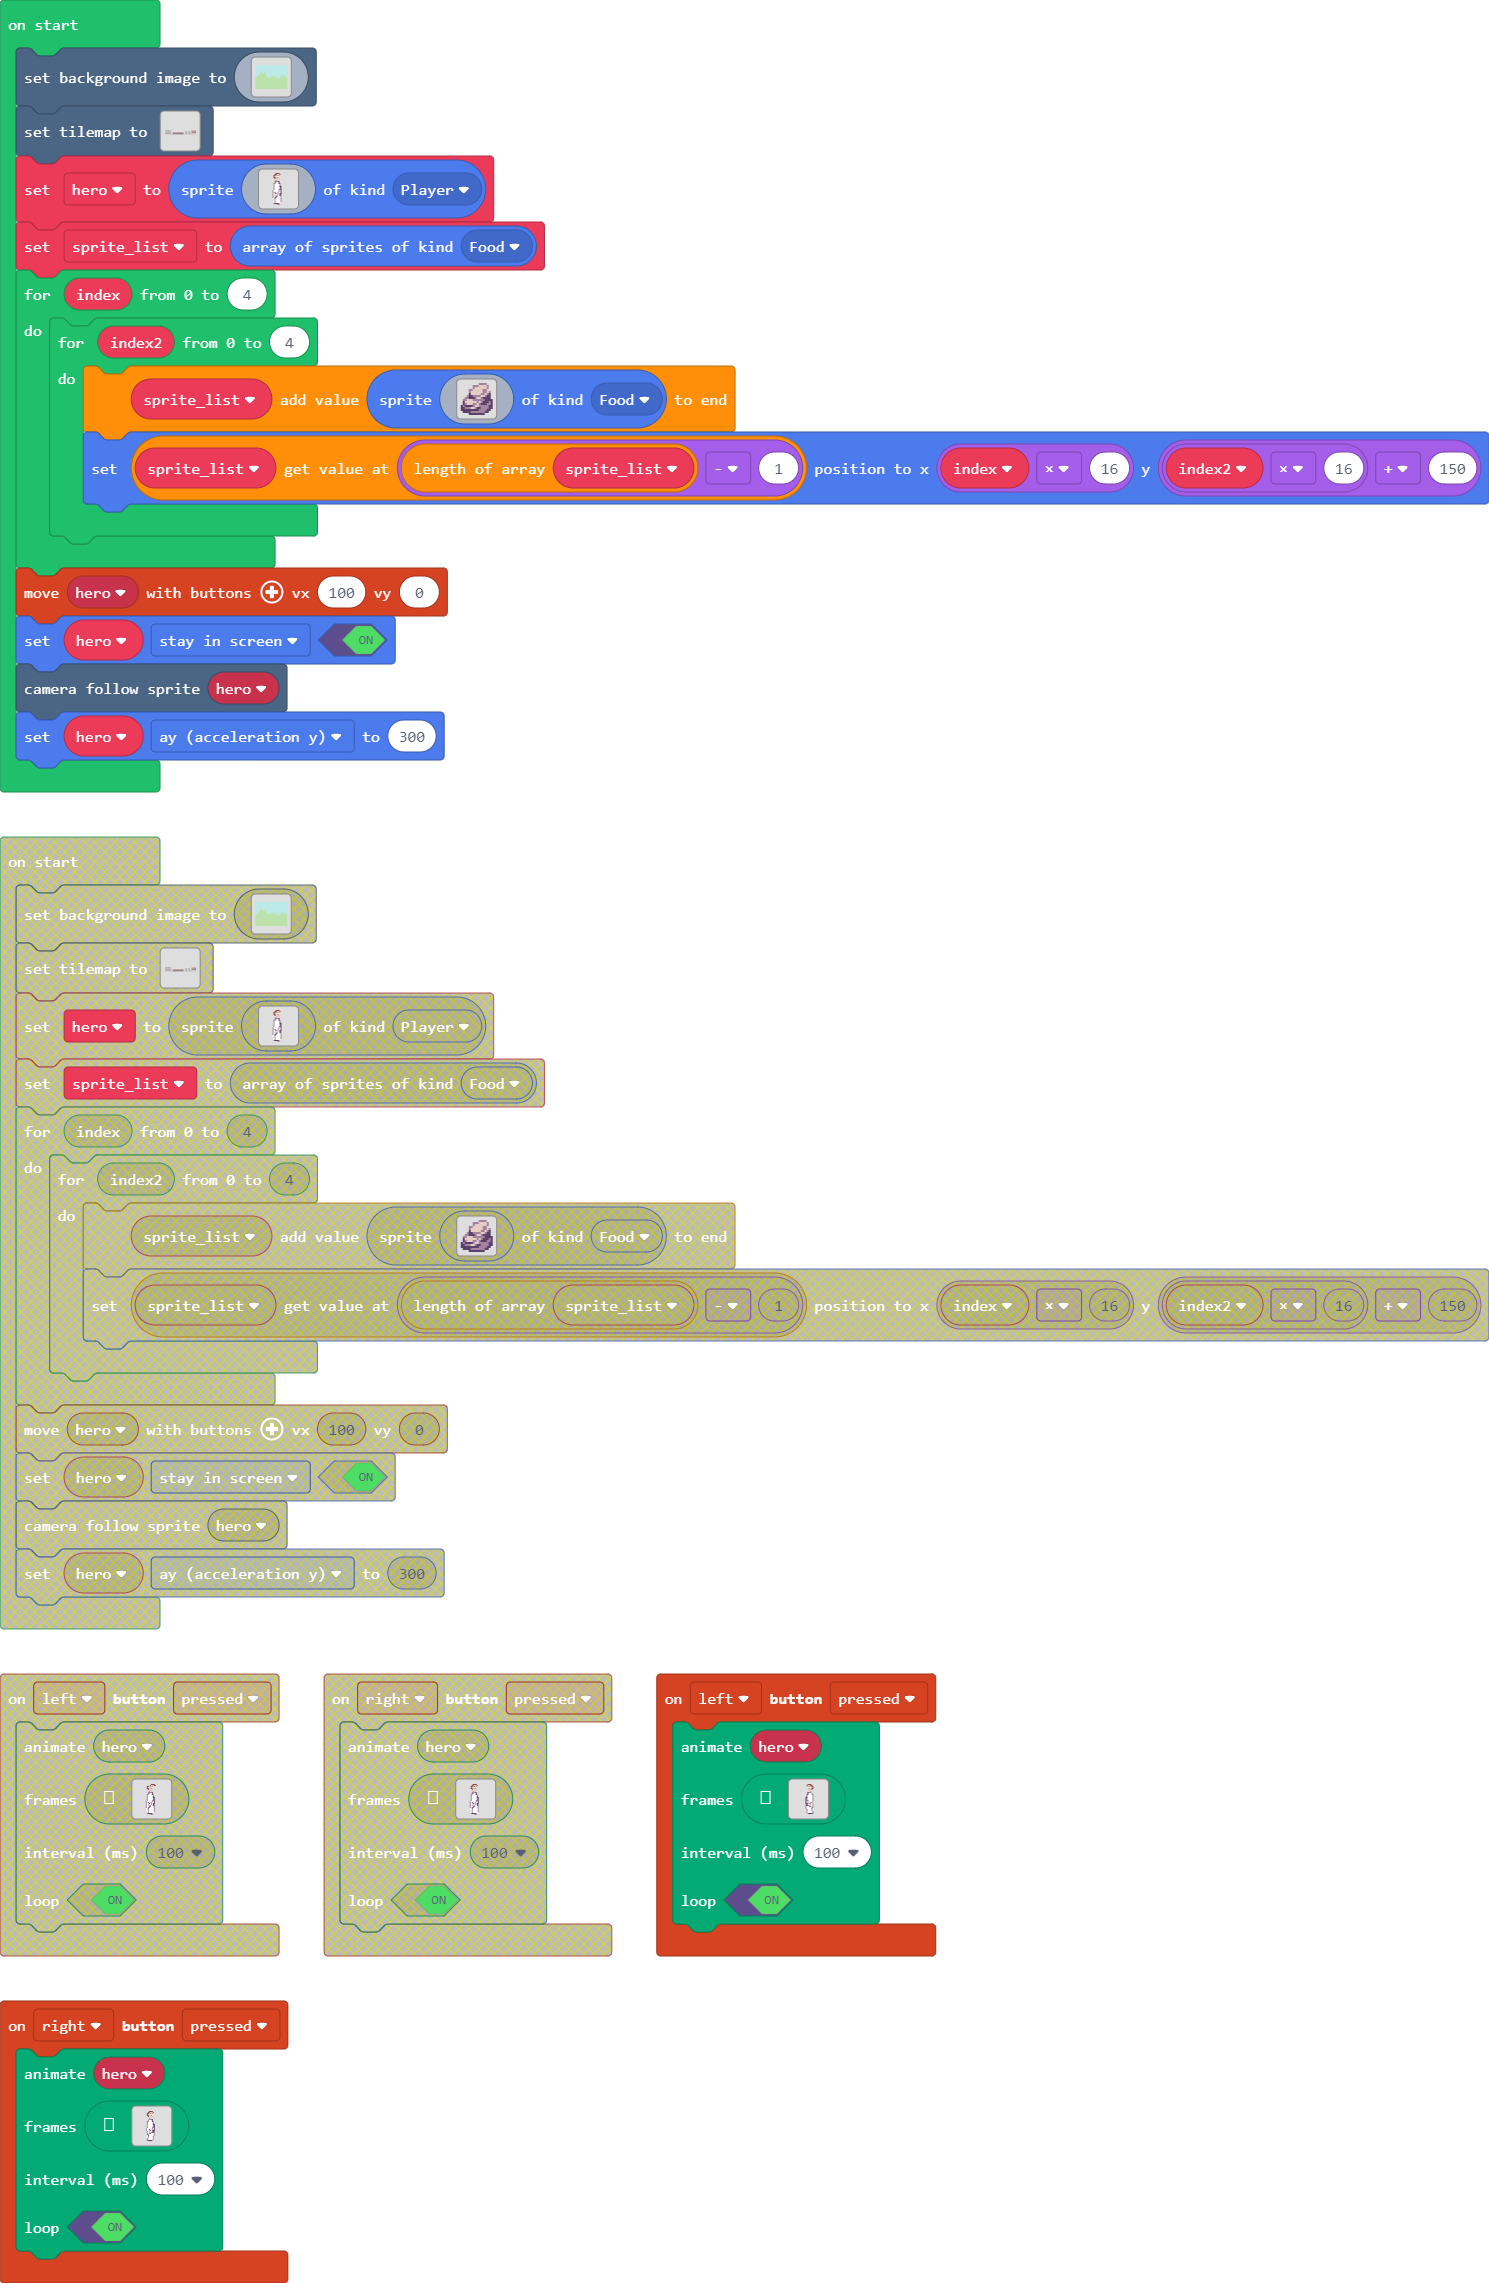
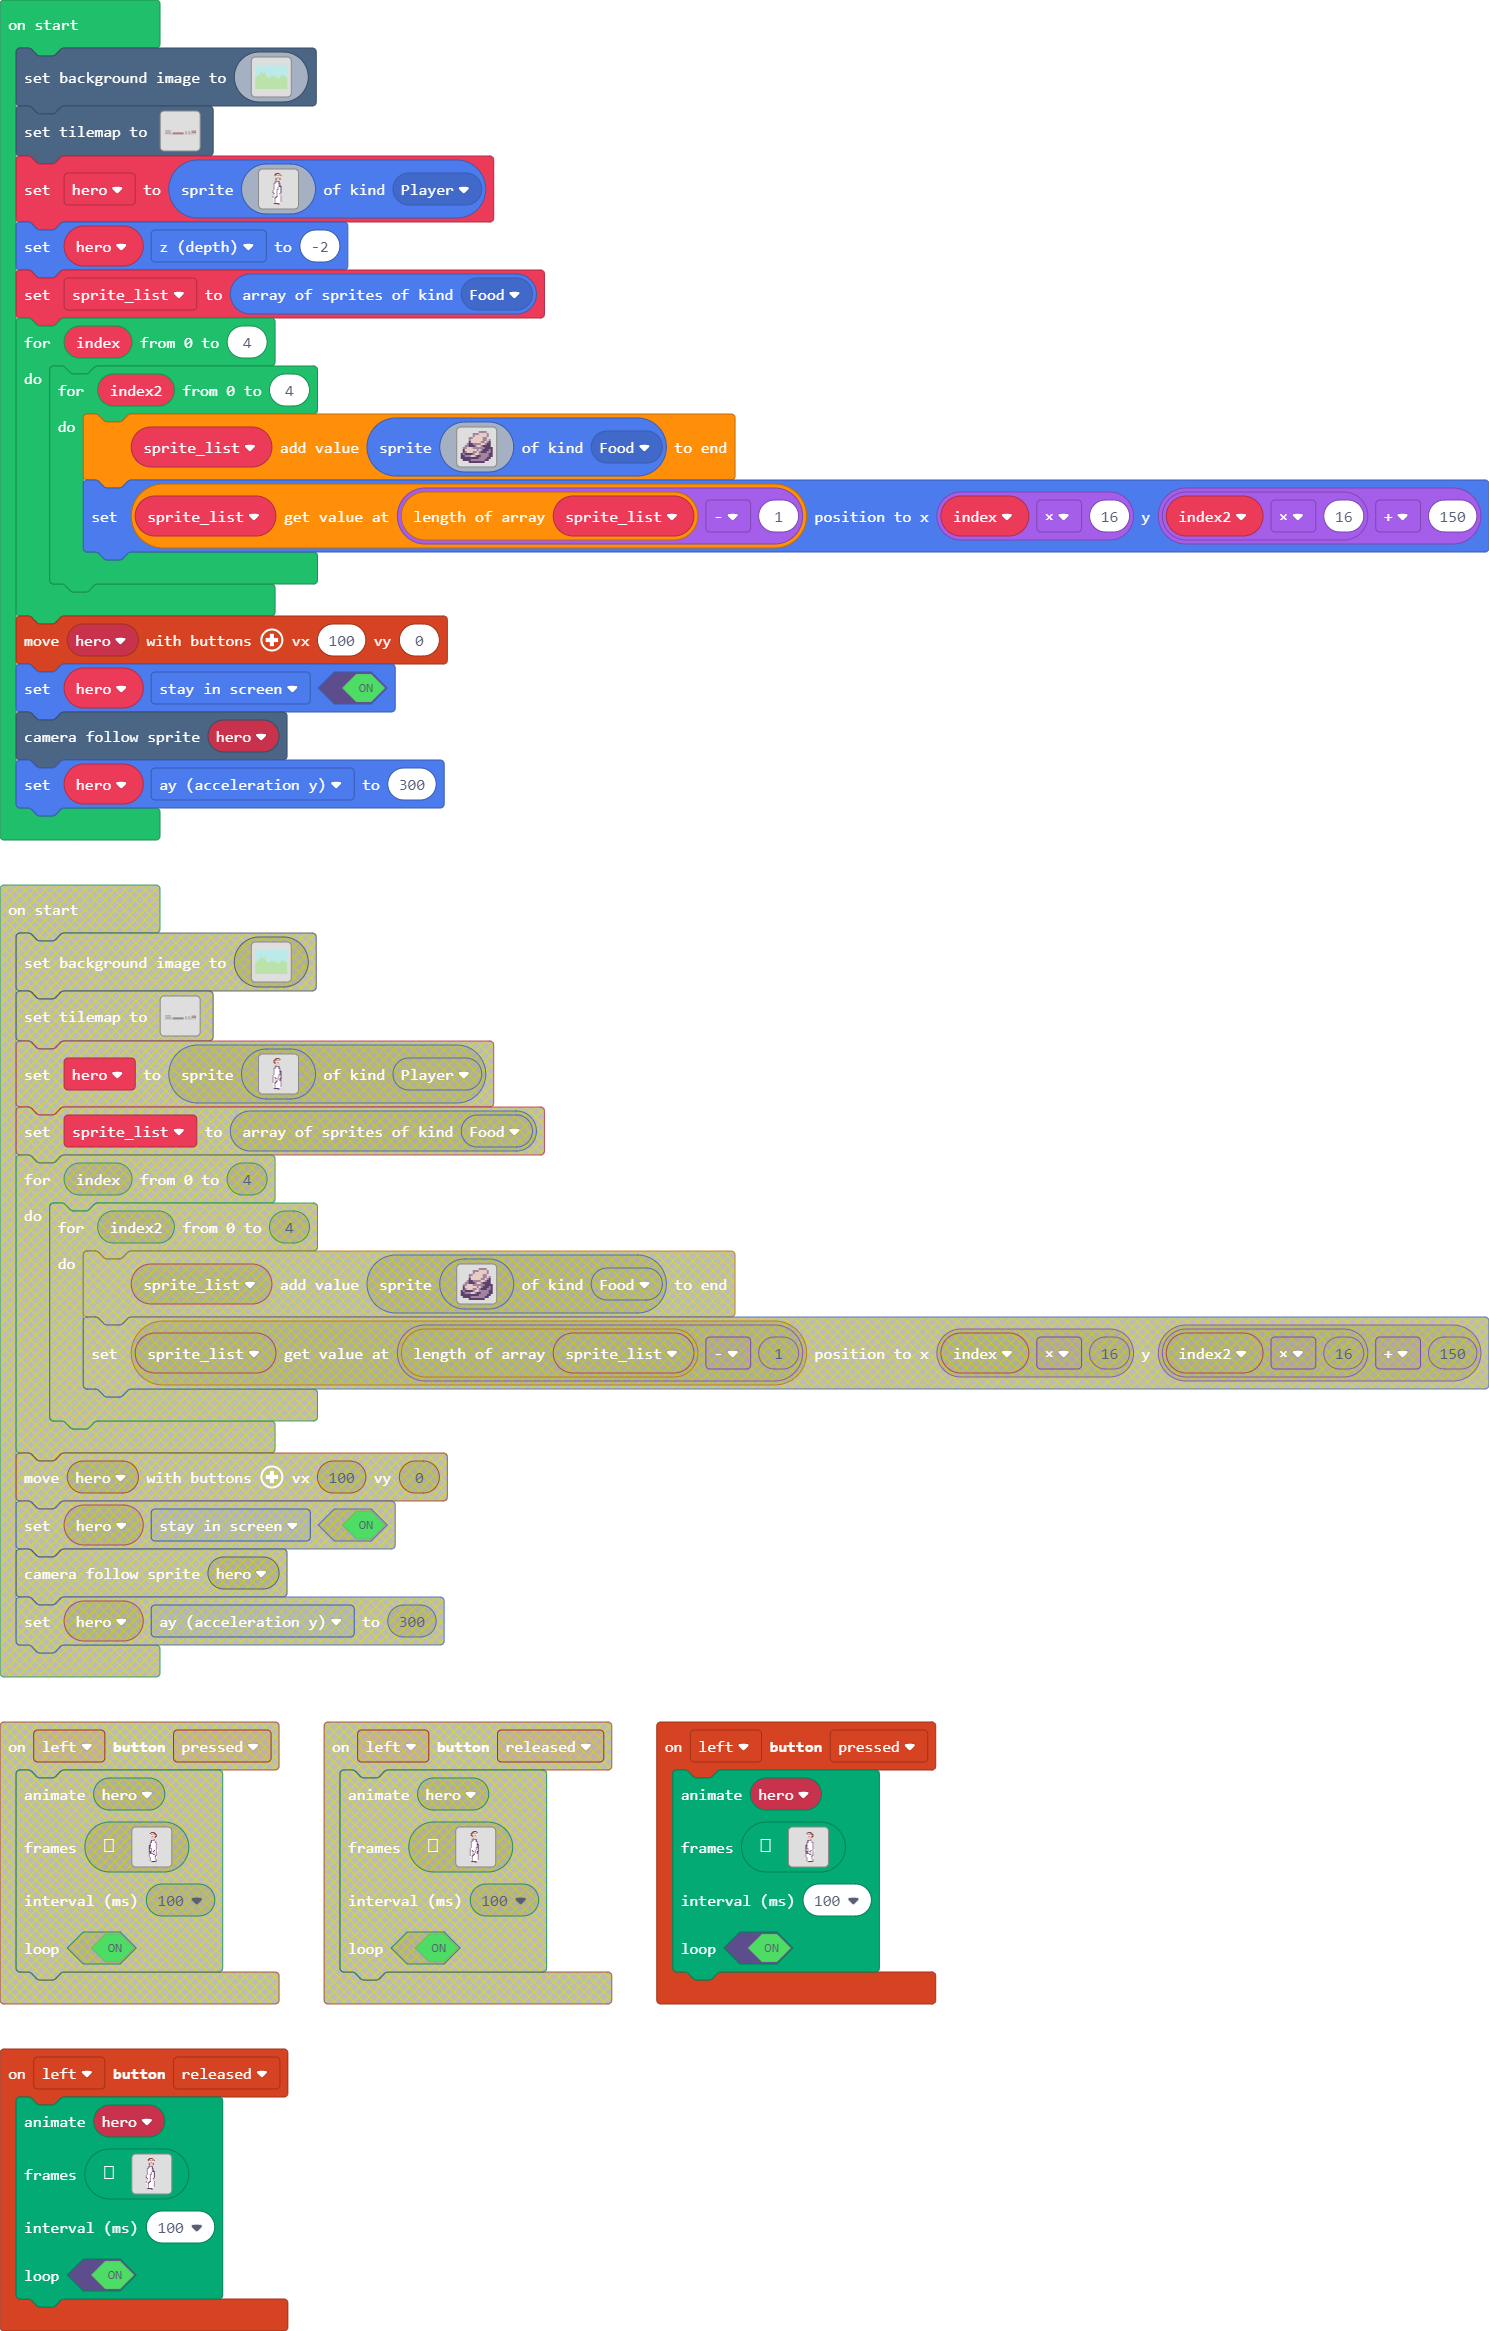
Update main.blocks, main.ts

Changed region(s): [[0.0, 0.0311, 1.0, 0.9641], [0.0618, 0.9641, 0.0927, 0.9952]]

diff --git a/main.ts b/main.ts
@@ -588,6 +588,139 @@ b b b b b b b b b b b b b b b b
 d d d d d d d d d d d d d d d d 
 c c c c c c c c c c c c c c c c 
 `
+    //% blockIdentity=images._tile
+    export const tile33 = img`
+f d d b c 2 c c c 2 c c c 2 c c 
+f d d b c 4 4 c 2 4 4 c 2 4 4 c 
+f d d b c 4 4 c 2 4 4 c 2 4 4 c 
+f d d b c 4 4 c 2 4 4 c 2 4 4 c 
+f d d b c 4 4 c 2 4 4 c 2 4 4 c 
+f d d b c 4 4 c 2 4 4 c 2 4 4 c 
+f d d b c d 4 c 2 d 4 c 2 d 4 c 
+f d d b c d b c b d b c b d b c 
+f d d b c d b c b d b c b d b c 
+f d d d d d d d d d d d d d d d 
+f b b b b b b b b b b b b b b b 
+f b d b d b d b d b d b d b d b 
+f d d d d d d d d d d d d d d d 
+f b b b b b b b b b b b b b b b 
+f b b b b b b b b b b b b b b b 
+f f f f f f f f f f f f f f f f 
+`
+    //% blockIdentity=images._tile
+    export const tile34 = img`
+c 2 c c c 2 c c c 2 c c c 2 c c 
+2 4 4 c 2 4 4 c 2 4 4 c 2 4 4 c 
+2 4 4 c 2 4 4 c 2 4 4 c 2 4 4 c 
+2 4 4 c 2 4 4 c 2 4 4 c 2 4 4 c 
+2 4 4 c 2 4 4 c 2 4 4 c 2 4 4 c 
+2 4 4 c 2 4 4 c 2 4 4 c 2 4 4 c 
+2 4 4 c 2 4 4 c 2 4 4 c 2 4 4 c 
+2 c 4 c 2 c 4 c 2 c 4 c 2 c 4 c 
+c 2 c c c 2 c c c 2 c c c c c c 
+2 4 4 c 2 4 4 c 2 4 4 c 2 4 4 c 
+2 4 4 c 2 4 4 c 2 4 4 c 2 4 4 c 
+2 4 4 c 2 4 4 c 2 4 4 c 2 4 4 c 
+2 4 4 c 2 4 4 c 2 4 4 c 2 4 4 c 
+2 4 4 c 2 4 4 c 2 4 4 c 2 4 4 c 
+2 4 4 c 2 4 4 c 2 4 4 c 2 4 4 c 
+2 c 4 c 2 c 4 c 2 c 4 c 2 c 4 c 
+`
+    //% blockIdentity=images._tile
+    export const tile35 = img`
+f d d b c 2 c c c 2 c c c 2 c c 
+f d d b c 4 4 c 2 4 4 c 2 4 4 c 
+f d d b c 4 4 c 2 4 4 c 2 4 4 c 
+f d d b c 4 4 c 2 4 4 c 2 4 4 c 
+f d d b c 4 4 c 2 4 4 c 2 4 4 c 
+f d d b c 4 4 c 2 4 4 c 2 4 4 c 
+f d d b c 4 4 c 2 4 4 c 2 4 4 c 
+f d d b c c 4 c 2 c 4 c 2 c 4 c 
+f d d b c 2 c c c 2 c c c c c c 
+f d d b c 4 4 c 2 4 4 c 2 4 4 c 
+f d d b c 4 4 c 2 4 4 c 2 4 4 c 
+f d d b c 4 4 c 2 4 4 c 2 4 4 c 
+f d d b c 4 4 c 2 4 4 c 2 4 4 c 
+f d d b c 4 4 c 2 4 4 c 2 4 4 c 
+f d d b c 4 4 c 2 4 4 c 2 4 4 c 
+f d d b c c 4 c 2 c 4 c 2 c 4 c 
+`
+    //% blockIdentity=images._tile
+    export const tile36 = img`
+f b b c c 2 c c c 2 c c c 2 c c 
+f b b c 2 4 4 c 2 4 4 c 2 4 4 c 
+f b b c 2 4 4 c 2 4 4 c 2 4 4 c 
+f b b c 2 4 4 c 2 4 4 c 2 4 4 c 
+f b b c 2 4 4 c 2 4 4 c 2 4 4 c 
+f b b c 2 4 4 c 2 4 4 c 2 4 4 c 
+f d d c 2 d 4 c 2 d 4 c 2 d 4 c 
+f d d b b d b c b d b c b d b c 
+f d d b b d b c b d b c b d b c 
+f d d d d d d d d d d d d d d d 
+f b b b b b b b b b b b b b b b 
+f b d b d b d b d b d b d b d b 
+f d d d d d d d d d d d d d d d 
+f b b b b b b b b b b b b b b b 
+f b b b b b b b b b b b b b b b 
+f f f f f f f f f f f f f f f f 
+`
+    //% blockIdentity=images._tile
+    export const tile37 = img`
+c 2 c c c 2 c c c 2 c c b d d f 
+2 4 4 c 2 4 4 c 2 4 4 c b d d f 
+2 4 4 c 2 4 4 c 2 4 4 c b d d f 
+2 4 4 c 2 4 4 c 2 4 4 c b d d f 
+2 4 4 c 2 4 4 c 2 4 4 c b d d f 
+2 4 4 c 2 4 4 c 2 4 4 c b d d f 
+2 d 4 c 2 d 4 c 2 d 4 c b d d f 
+b d b c b d b c b d b c b d d f 
+b d b c b d b c b d b c b d d f 
+d d d d d d d d d d d d d d d f 
+b b b b b b b b b b b b b b b f 
+d b d b d b d b d b d b d b d f 
+d d d d d d d d d d d d d d d f 
+b b b b b b b b b b b b b b b f 
+b b b b b b b b b b b b b b b f 
+f f f f f f f f f f f f f f f f 
+`
+    //% blockIdentity=images._tile
+    export const tile38 = img`
+f d d b c 2 c c c 2 c c c 2 c c 
+f d d b c 4 4 c 2 4 4 c 2 4 4 c 
+f d d b c 4 4 c 2 4 4 c 2 4 4 c 
+f d d b c 4 4 c 2 4 4 c 2 4 4 c 
+f d d b c 4 4 c 2 4 4 c 2 4 4 c 
+f d d b c 4 4 c 2 4 4 c 2 4 4 c 
+f d d b c 4 4 c 2 4 4 c 2 4 4 c 
+f d d b c c 4 c 2 c 4 c 2 c 4 c 
+f d d b c 2 c c c 2 c c c c c c 
+f d d b c 4 4 c 2 4 4 c 2 4 4 c 
+f d d b c 4 4 c 2 4 4 c 2 4 4 c 
+f d d b c 4 4 c 2 4 4 c 2 4 4 c 
+f d d b c 4 4 c 2 4 4 c 2 4 4 c 
+f d d b c 4 4 c 2 4 4 c 2 4 4 c 
+f d d b c 4 4 c 2 4 4 c 2 4 4 c 
+f d d b c c 4 c 2 c 4 c 2 c 4 c 
+`
+    //% blockIdentity=images._tile
+    export const tile39 = img`
+c 2 c c c 2 c c c 2 c c b d d f 
+2 4 4 c 2 4 4 c 2 4 4 c b d d f 
+2 4 4 c 2 4 4 c 2 4 4 c b d d f 
+2 4 4 c 2 4 4 c 2 4 4 c b d d f 
+2 4 4 c 2 4 4 c 2 4 4 c b d d f 
+2 4 4 c 2 4 4 c 2 4 4 c b d d f 
+2 4 4 c 2 4 4 c 2 4 4 c b d d f 
+2 c 4 c 2 c 4 c 2 c 4 c b d d f 
+c 2 c c c 2 c c c 2 c c b d d f 
+2 4 4 c 2 4 4 c 2 4 4 c b d d f 
+2 4 4 c 2 4 4 c 2 4 4 c b d d f 
+2 4 4 c 2 4 4 c 2 4 4 c b d d f 
+2 4 4 c 2 4 4 c 2 4 4 c b d d f 
+2 4 4 c 2 4 4 c 2 4 4 c b d d f 
+2 4 4 c 2 4 4 c 2 4 4 c b d d f 
+2 c 4 c 2 c 4 c 2 c 4 c b d d f 
+`
 }
 controller.up.onEvent(ControllerButtonEvent.Released, function () {
     hero.ay = 300
@@ -673,27 +806,27 @@ controller.left.onEvent(ControllerButtonEvent.Released, function () {
     [img`
 . . . . . e e e e . . . . . . . 
 . . . . e e d d d e . . . . . . 
-. . . e e d b d b . . . . . . . 
-. . . e d d 1 d 1 . . . . . . . 
-. . . e e d d b d . . . . . . . 
-. . . . e d d d d . . . . . . . 
-. . . . . d d d d . . . . . . . 
+. . . . e d b d b d e . . . . . 
+. . . . d d 1 d 1 d . . . . . . 
+. . . . . d d b d d . . . . . . 
+. . . . . e d d d e . . . . . . 
+. . . . . e d d d e . . . . . . 
 . . . . . b d d . . . . . . . . 
 . . . . b b b b c . . . . . . . 
 . . . . b b 1 1 c . . . . . . . 
 . . . b b 1 1 1 c b . . . . . . 
-. . . b 1 1 1 1 1 b . . . . . . 
-. . . b 1 1 1 1 1 c . . . . . . 
-. . . b 1 1 1 1 1 c c . . . . . 
-. . . b 1 1 1 1 1 b c . . . . . 
-. . . b 1 1 1 1 1 b c . . . . . 
-. . . b 1 1 1 1 b b c . . . . . 
-. . b 1 1 1 1 1 b 1 c . . . . . 
-. . b 1 1 1 1 1 b 1 c . . . . . 
-. . b 1 c 1 1 b 1 1 c . . . . . 
-. . b 1 d c 1 b 1 c c . . . . . 
-. . b 1 d d 1 b 1 c b . . . . . 
-. . b 1 d d b 1 1 c b . . . . . 
+. . . b 1 1 1 1 b b . . . . . . 
+. . . b 1 1 1 1 b c . . . . . . 
+. . . b 1 1 1 1 b c c . . . . . 
+. . . b 1 1 1 b 1 1 c . . . . . 
+. . . b 1 1 1 b 1 1 c . . . . . 
+. . . b 1 1 b b 1 1 c . . . . . 
+. . b 1 1 1 b 1 1 1 c . . . . . 
+. . b 1 1 1 b 1 1 1 c . . . . . 
+. . c 1 1 1 b 1 1 1 c . . . . . 
+. . d c 1 1 b 1 1 c d . . . . . 
+. . d d 1 1 b 1 1 d d . . . . . 
+. . d d 1 1 b 1 1 d d . . . . . 
 . . b 1 1 b c 1 1 1 b . . . . . 
 . . b 1 b c 1 1 1 1 b . . . . . 
 . . 1 1 c 1 1 1 1 1 b . . . . . 
@@ -702,7 +835,7 @@ controller.left.onEvent(ControllerButtonEvent.Released, function () {
 . . . 1 b 1 1 1 1 1 b . . . . . 
 . . . 1 b 1 1 1 1 1 . . . . . . 
 . . . b c c c c b . . . . . . . 
-. . . d d d . b b d d . . . . . 
+. . . d d d . b b d . . . . . . 
 `],
     100,
     true
@@ -954,7 +1087,7 @@ scene.setBackgroundImage(img`
 7 7 7 7 7 7 7 7 7 7 7 7 7 7 7 7 7 7 7 7 7 7 7 7 7 7 7 7 7 7 7 7 7 7 7 7 7 7 7 7 7 7 7 7 7 7 7 7 7 7 7 7 7 7 7 7 7 7 7 7 7 7 7 7 7 7 7 7 7 7 7 7 7 7 7 7 7 7 7 7 7 7 7 7 7 7 7 7 7 7 7 7 7 7 7 7 7 7 7 7 7 7 7 7 7 7 7 7 7 7 7 7 7 7 7 7 7 7 7 7 7 7 7 7 7 7 7 7 7 7 7 7 7 7 7 7 7 7 7 7 7 7 7 7 7 7 7 7 7 7 7 7 7 7 7 7 7 7 7 7 
 `)
 tiles.setTilemap(tiles.createTilemap(
[2 lines of base64/hex data omitted]
             img`
 . . . . . . . . . . . . . . . . . . . . . . . . . . . . . . . . . . . . . . . . . . . . . . . . . . . . . . . . . . . . . . . . 
 . . . . . . . . . . . . . . . . . . . . . . . . . . . . . . . . . . . . . . . . . . . . . . . . . . . . . . . . . . . . . . . . 
@@ -973,33 +1106,33 @@ tiles.setTilemap(tiles.createTilemap(
 . 2 2 2 2 2 2 2 2 2 2 2 2 2 . 2 . . . . . . . . . . . . . . . . . . . . . . . . . . . . . . . . . . . . 2 . . . . . . . . . . . 
 2 2 2 2 . . . . . . . . 2 2 2 2 2 2 2 2 2 2 2 2 2 2 2 2 2 2 2 2 2 2 2 2 2 2 2 2 2 2 2 2 2 2 2 2 2 2 2 2 2 2 2 2 2 2 2 2 2 2 2 2 
 `,
-            [myTiles.tile0,sprites.castle.tileGrass2,sprites.castle.tileDarkGrass2,sprites.castle.tilePath5,myTiles.tile1,myTiles.tile2,myTiles.tile3,myTiles.tile4,myTiles.tile5,myTiles.tile6,myTiles.tile7,myTiles.tile9,myTiles.tile10,myTiles.tile11,myTiles.tile12,myTiles.tile13,myTiles.tile14,myTiles.tile15,myTiles.tile16,myTiles.tile17,myTiles.tile19,myTiles.tile20,myTiles.tile21,myTiles.tile22,myTiles.tile23,myTiles.tile24,myTiles.tile25,myTiles.tile26,myTiles.tile27,myTiles.tile28,myTiles.tile29,myTiles.tile30,myTiles.tile31,myTiles.tile32],
+            [myTiles.tile0,sprites.castle.tileGrass2,sprites.castle.tileDarkGrass2,sprites.castle.tilePath5,myTiles.tile1,myTiles.tile2,myTiles.tile3,myTiles.tile4,myTiles.tile5,myTiles.tile6,myTiles.tile7,myTiles.tile9,myTiles.tile10,myTiles.tile11,myTiles.tile12,myTiles.tile13,myTiles.tile14,myTiles.tile15,myTiles.tile16,myTiles.tile17,myTiles.tile19,myTiles.tile20,myTiles.tile21,myTiles.tile22,myTiles.tile23,myTiles.tile24,myTiles.tile25,myTiles.tile26,myTiles.tile27,myTiles.tile28,myTiles.tile29,myTiles.tile30,myTiles.tile31,myTiles.tile32,myTiles.tile33,myTiles.tile34,myTiles.tile35,myTiles.tile36,myTiles.tile37,myTiles.tile38,myTiles.tile39],
             TileScale.Sixteen
         ))
 hero = sprites.create(img`
 . . . . . e e e e . . . . . . . 
 . . . . e e d d d e . . . . . . 
-. . . e e d b d b . . . . . . . 
-. . . e d d 1 d 1 . . . . . . . 
-. . . e e d d b d . . . . . . . 
-. . . . e d d d d . . . . . . . 
-. . . . . d d d d . . . . . . . 
+. . . . e d b d b d e . . . . . 
+. . . . d d 1 d 1 d . . . . . . 
+. . . . . d d b d d . . . . . . 
+. . . . . e d d d e . . . . . . 
+. . . . . e d d d e . . . . . . 
 . . . . . b d d . . . . . . . . 
 . . . . b b b b c . . . . . . . 
 . . . . b b 1 1 c . . . . . . . 
 . . . b b 1 1 1 c b . . . . . . 
-. . . b 1 1 1 1 1 b . . . . . . 
-. . . b 1 1 1 1 1 c . . . . . . 
-. . . b 1 1 1 1 1 c c . . . . . 
-. . . b 1 1 1 1 1 b c . . . . . 
-. . . b 1 1 1 1 1 b c . . . . . 
-. . . b 1 1 1 1 b b c . . . . . 
-. . b 1 1 1 1 1 b 1 c . . . . . 
-. . b 1 1 1 1 1 b 1 c . . . . . 
-. . b 1 c 1 1 b 1 1 c . . . . . 
-. . b 1 d c 1 b 1 c c . . . . . 
-. . b 1 d d 1 b 1 c b . . . . . 
-. . b 1 d d b 1 1 c b . . . . . 
+. . . b 1 1 1 1 b b . . . . . . 
+. . . b 1 1 1 1 b c . . . . . . 
+. . . b 1 1 1 1 b c c . . . . . 
+. . . b 1 1 1 b 1 1 c . . . . . 
+. . . b 1 1 1 b 1 1 c . . . . . 
+. . . b 1 1 b b 1 1 c . . . . . 
+. . b 1 1 1 b 1 1 1 c . . . . . 
+. . b 1 1 1 b 1 1 1 c . . . . . 
+. . c 1 1 1 b 1 1 1 c . . . . . 
+. . d c 1 1 b 1 1 c d . . . . . 
+. . d d 1 1 b 1 1 d d . . . . . 
+. . d d 1 1 b 1 1 d d . . . . . 
 . . b 1 1 b c 1 1 1 b . . . . . 
 . . b 1 b c 1 1 1 1 b . . . . . 
 . . 1 1 c 1 1 1 1 1 b . . . . . 
@@ -1008,8 +1141,9 @@ hero = sprites.create(img`
 . . . 1 b 1 1 1 1 1 b . . . . . 
 . . . 1 b 1 1 1 1 1 . . . . . . 
 . . . b c c c c b . . . . . . . 
-. . . d d d . b b d d . . . . . 
+. . . d d d . b b d . . . . . . 
 `, SpriteKind.Player)
+hero.z = -2
 let sprite_list = sprites.allOfKind(SpriteKind.Food)
 for (let index = 0; index <= 4; index++) {
     for (let index2 = 0; index2 <= 4; index2++) {
